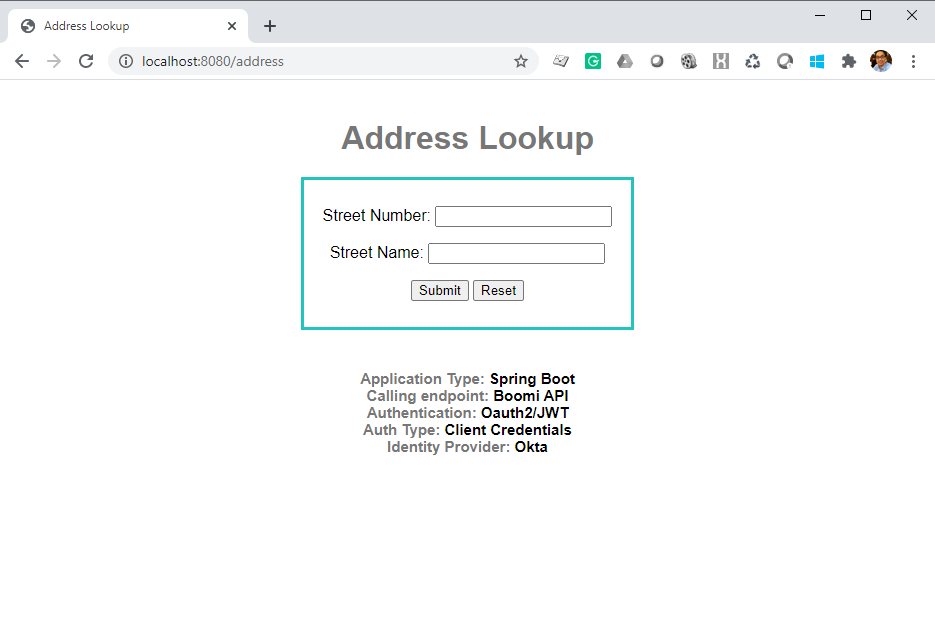
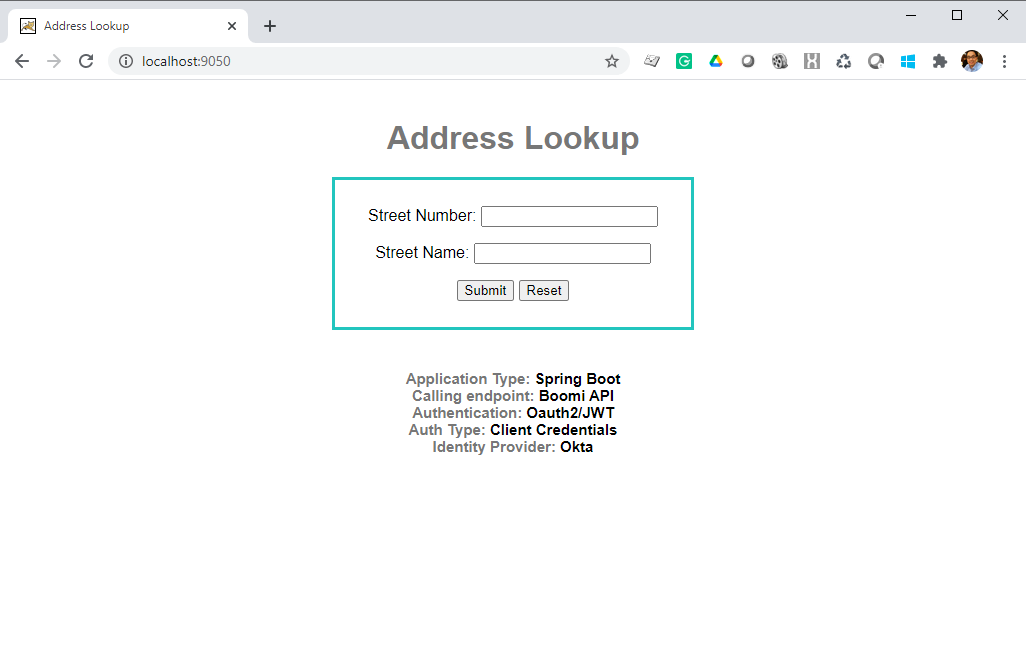
Modified README

Changed region(s): [[0.3102, 0.1845, 0.6824, 0.7379], [0.0, 0.0, 1.0, 0.123], [0.9615, 0.0, 0.9925, 0.0307]]

diff --git a/README.md b/README.md
@@ -2,7 +2,11 @@
 
 Spring Boot application used to call a Boomi API.
 
-URL: http://host:port/address
+URL: http://host:port
+
+Port number is specified in [a relative link](../AddressLookupApp/src/main/resources/application.yml)
+
+Main Java class is [a relative link](../AddressLookupApp/src/main/java/com/boomi/demo/addresslookup/AddressLookupController.java)
 
 ![Alt text](/docs/AddressLookupApp_1.png?raw=true "Interface")
 
